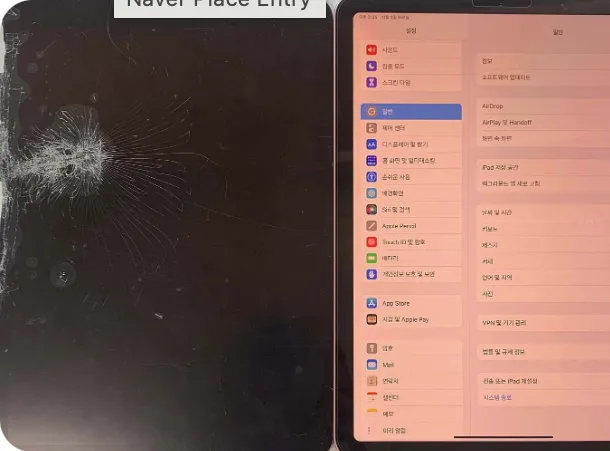
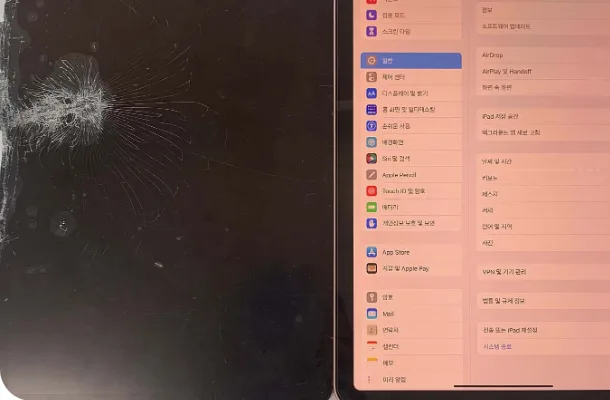
안내 글 주소 지원(/services/<서비스>/<글주소>), 아이패드 액정 비용 안내 글 초안(비공개)
Claude-Session: https://claude.ai/code/session_01GKuoYgx4jjQMsMoCYLGCHG

diff --git a/App.tsx b/App.tsx
@@ -719,7 +719,7 @@ function areaMeta(service: string, area: string) {
 }
 function areasOf(service: string) {
   const m = new Map<string, string>();
-  COLUMNS.filter((p) => p.service === service).forEach((p) => m.set(p.area, p.areaName));
+  COLUMNS.filter((p) => p.service === service && p.area).forEach((p) => m.set(p.area, p.areaName));
   return [...m.entries()];
 }
 
@@ -732,7 +732,7 @@ function PostCards({ posts, showService = false }: { posts: Column[]; showServic
             <small>
               {dot(p.date)}
               {showService && <span className="column-tag">{p.serviceName}</span>}
-              <span className="column-tag area">{p.areaName}</span>
+              {p.areaName ? <span className="column-tag area">{p.areaName}</span> : <span className="column-tag area">수리 안내</span>}
             </small>
             <h3>{p.title}</h3>
             <p>{p.description}</p>
@@ -1509,6 +1509,8 @@ function ServicePage({ svc }: { svc: Svc }) {
 
 function AreaPage() {
   const { serviceId = '', area = '' } = useParams();
+  // /services/<서비스>/<글주소> 형태의 안내 글이면 글을 보여줘요
+  if (COLUMNS.some((p) => p.path === `/services/${serviceId}/${area}`)) return <PostPage path={`/services/${serviceId}/${area}`} />;
   const m = areaMeta(serviceId, area);
   if (!m) return <Navigate to={`/services/${serviceId}`} replace />;
   const label = DEVICE_LABEL[m.svc.device];
@@ -1527,18 +1529,18 @@ function AreaPage() {
   );
 }
 
-function PostPage() {
+function PostPage({ path }: { path?: string }) {
   const { serviceId = '', area = '', slug = '' } = useParams();
-  const post = COLUMNS.find((p) => p.path === `/services/${serviceId}/${area}/${slug}`);
+  const post = COLUMNS.find((p) => p.path === (path || `/services/${serviceId}/${area}/${slug}`));
   if (!post) return <Navigate to={`/services/${serviceId}`} replace />;
   const areaPath = `/services/${post.service}/${post.area}`;
   const more = COLUMNS.filter((p) => p.service === post.service && p.path !== post.path).slice(0, 3);
   return (
     <div className="shell article-page">
-      <Crumbs items={[['홈', '/'], ['서비스', '/services'], [post.serviceName, `/services/${post.service}`], [post.areaName, areaPath]]} />
+      <Crumbs items={[['홈', '/'], ['서비스', '/services'], [post.serviceName, `/services/${post.service}`], ...(post.area ? [[post.areaName, areaPath] as [string, string]] : [])]} />
       <article className="panel article">
         <header>
-          <span className="badge">{post.areaName} · {post.serviceName}</span>
+          <span className="badge">{post.areaName ? `${post.areaName} · ` : '세이프픽스 수리 안내 · '}{post.serviceName}</span>
           <h1>{post.title}</h1>
           <p className="article-lead">{post.description}</p>
           <p className="article-meta">

diff --git a/content/blog/아이패드-액정-수리-비용은-왜-업체마다-다를까요-견적-전에-확인할-항목.md b/content/blog/아이패드-액정-수리-비용은-왜-업체마다-다를까요-견적-전에-확인할-항목.md
@@ -1,0 +1,83 @@
+---
+title: 아이패드 액정 수리 비용은 왜 업체마다 다를까요? 견적 전에 확인할 항목
+description: 아이패드 액정 수리 비용은 모델, 손상 범위, 부품 종류, 모델별 추가 작업, 수리 후 점검 범위에 따라 달라져요. 총액보다 무엇이 포함됐는지 같은 기준으로 비교하세요.
+date: 2026-11-06
+service: ipad-screen
+slug: 아이패드-액정-수리-비용은-왜-업체마다-다를까요-견적-전에-확인할-항목
+question: q040
+draft: true
+---
+
+**아이패드 액정 수리 비용은 '어떤 모델의 어디가, 어떤 부품으로, 어디까지 확인하고' 고치느냐에 따라 달라져요.** 그래서 업체마다 금액이 다르게 나오는 건 이상한 일이 아니에요. 중요한 건 총액이 아니라 그 금액에 무엇이 들어 있는지 같은 기준으로 비교하는 거예요.
+
+모델명을 모르거나 증상을 정확히 설명하기 어려워도 괜찮아요. 사진 한 장과 증상만 알려주셔도 점검이 필요한지 먼저 말씀드릴 수 있어요.
+
+![실제 손님이 맡기신 아이패드 에어4 액정 파손 상태 (손님 리뷰 사진)](/images/reviews/r7.webp)
+
+## 01 모델이 다르면 왜 비용이 달라지나요?
+
+**모델마다 화면 구조와 부품이 달라서 작업 방법과 부품 값이 달라져요.** 같은 '아이패드 액정'이라도 일반 아이패드, 에어, 프로는 화면 구조가 다르고, 같은 프로라도 세대와 크기에 따라 부품이 달라요.
+
+그래서 견적을 받을 때는 '아이패드'가 아니라 정확한 모델명(예: 아이패드 에어 5, 아이패드 프로 11 3세대)을 기준으로 비교해야 해요. 모델명은 설정 › 일반 › 정보에서 확인할 수 있어요.
+
+## 02 유리만 깨진 것과 화면이 안 나오는 것은 어떻게 다른가요?
+
+**겉유리만 손상됐는지, 화면을 표시하는 디스플레이까지 손상됐는지에 따라 작업 범위가 완전히 달라져요.** 겉유리가 깨지고 터치가 먹통이거나 고스트 터치가 생긴 경우에도, 원인에 따라 외부 유리 교체로 해결되는 경우가 있어요.
+
+반대로 화면에 줄이 생기거나 일부가 까맣게 나오면 디스플레이까지 손상된 경우가 많아요. 겉으로 보이는 깨짐만으로는 판단하기 어려워서, 점검 후에 정확한 범위를 안내드려요.
+
+## 03 같은 모델인데도 금액 차이가 크게 나는 이유는 무엇인가요?
+
+**어떤 부품을 쓰느냐가 가장 큰 차이를 만들어요.** 가격만 보고 너무 저렴한 액정으로 수리했다가 터치 불량, 애플펜슬 끊김, 화면과 프레임 사이 유격이 생겨 다시 찾아오시는 경우를 실제로 자주 봐요.
+
+견적을 받을 때 "어떤 부품으로 교체하나요?"를 꼭 물어보세요. 세이프픽스는 어떤 부품을 쓰는지 미리 설명드리고, 눈으로 확인하실 수 있게 보여드려요.
+
+## 04 모델별로 추가 작업이 필요한 경우가 있나요?
+
+**네, 일부 모델은 화면만 바꿔서는 기능이 완전히 돌아오지 않아요.** 이런 추가 작업이 견적에 포함됐는지가 비용 차이로 이어져요.
+
+| 모델 | 추가로 필요한 작업 | 빠뜨리면 생기는 일 |
+| --- | --- | --- |
+| 아이패드 프로 12.9 6세대 | 화면 케이블(FPC)의 EPROM 칩을 새 화면으로 옮기기 | 화면은 켜져도 애플펜슬이 제대로 동작하지 않음 |
+| 아이패드 에어 6 | 교체 후 설정에서 '수리 마저하기' 진행 | 수리 과정이 완료되지 않은 상태로 남음 |
+
+## 05 견적을 비교할 때 무엇을 같은 기준으로 봐야 하나요?
+
+**아래 다섯 가지를 같은 질문으로 물어보면 금액 차이의 이유가 보여요.**
+
+| 비교 항목 | 이렇게 물어보세요 | 확인할 것 |
+| --- | --- | --- |
+| 손상 범위 | 유리만인가요, 디스플레이까지인가요? | 점검 후 범위를 설명해 주는지 |
+| 부품 종류 | 어떤 부품으로 교체하나요? | 부품을 미리 보여주는지 |
+| 모델별 추가 작업 | 펜슬·설정 관련 작업이 포함되나요? | EPROM 이식, 수리 마저하기 등 |
+| 수리 후 점검 | 무엇을 확인하고 돌려주나요? | 터치·펜슬·충방전·해상도 확인 여부 |
+| 보증 | 같은 증상이 다시 생기면 어떻게 되나요? | 보증 기간과 제외 조건 |
+
+세이프픽스는 수리 후 충방전, 터치, 해상도, 애플펜슬, 버벅거림, 전·후면 카메라까지 하나씩 확인한 뒤 돌려드려요. 아이패드 액정 교체는 수리 후 1개월 동안 같은 증상이 다시 나타나면 무상으로 봐드려요(떨어뜨리거나 물에 빠뜨린 경우처럼 고객 과실은 제외).
+
+## 06 상담 전에 무엇을 준비하면 좋나요?
+
+**모델명, 증상, 이전 수리 이력 세 가지면 충분해요.**
+
+1. 모델명 (설정 › 일반 › 정보)
+2. 언제부터 어떤 증상인지, 떨어뜨림·침수 여부
+3. 이전에 다른 곳에서 수리한 적이 있는지
+4. 여행자 보험 청구 예정이라면 미리 말씀해 주세요. 견적서·영수증 등 청구 서류를 준비해 드려요.
+
+## 자주 묻는 질문
+
+### 작은 금이 간 정도면 수리비가 더 저렴한가요?
+
+깨진 크기보다 디스플레이까지 손상됐는지가 더 중요해요. 작은 금이라도 터치나 화면 표시에 문제가 있으면 작업 범위가 커질 수 있어서, 점검 후에 안내드려요.
+
+### 처음 받은 견적보다 비용이 올라갈 수 있나요?
+
+세이프픽스는 점검 후 비용과 소요 시간을 먼저 안내하고, 동의하신 경우에만 수리해요. 작업 중 다른 문제가 발견되면 진행 전에 다시 말씀드려요.
+
+### 아이패드 액정 수리 당일에 되나요?
+
+부품과 모델에 따라 달라요. 방문 전에 모델명과 증상을 알려주시면 당일 가능한지 미리 확인해 드려요.
+
+## 지금 아이패드, 견적부터 받아볼까요?
+
+화면이 깨졌더라도 지금 터치와 펜슬이 되는지에 따라 선택지가 달라져요. 모델명과 사진만 보내주시면 점검이 필요한지, 어떤 범위의 수리인지 먼저 말씀드릴게요. [아이패드 액정수리 안내](/services/ipad-screen)에서 진행 과정과 보증도 확인해 보세요.
